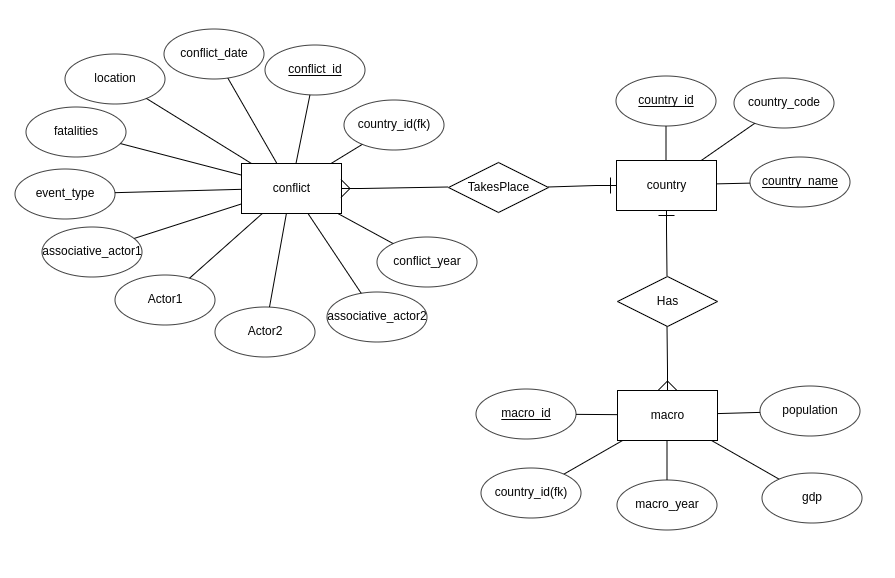
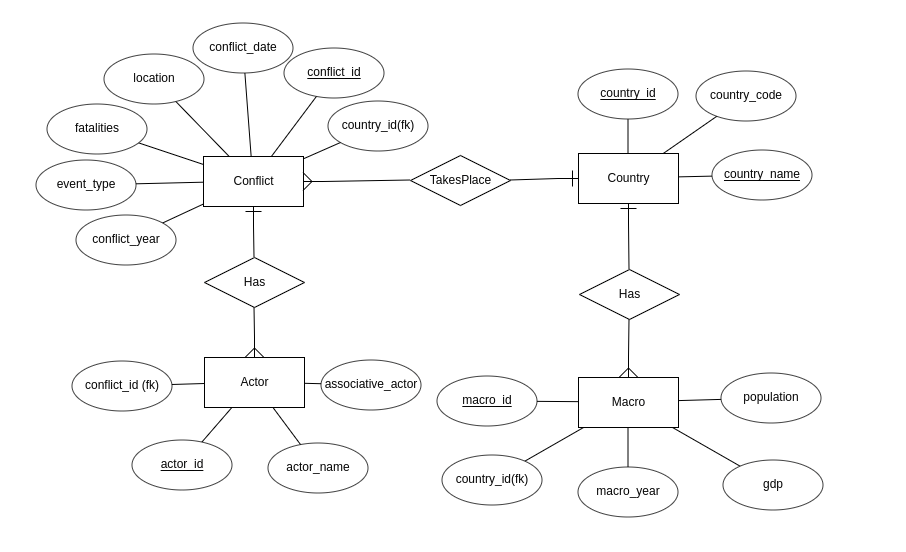
readme , updated ER

diff --git a/server/DatabaseConnection.js b/server/DatabaseConnection.js
@@ -1,12 +1,14 @@
 var mysql = require('mysql');
 
-var databaseName = "ConflictStatistics";
-var pw = "";
+const databaseName = "ConflictStatistics";
+const host = "localhost";
+const user = "root";
+const password = "";
 
 var con = mysql.createConnection({
-    host: "localhost",
-    user: "root",
-    password: pw,
+    host: host,
+    user: user,
+    password: password,
     database: databaseName
 });
 

diff --git a/README.md b/README.md
@@ -1,3 +1,29 @@
+# CONFLICT STATISTICS
+
+This application is a SQL database for macro-statistics for countries (fatalities, population and GDP), combined with conflict data (wars, uprisings, demonstrations). Reason for my idea is to get interesting statistical causalities between conflicts and other data. It will also be a pure database for reported conflicts around the world.
+
+## Installation
+1. Clone the project.
+2. Download and install [https://dev.mysql.com/downloads/](MySQL)
+3. Download [https://we.tl/t-MJmDxslnIu](data set) and move files to ConflictStatistics/datasets
+4. Change credentials in FileManager and DatabaseConnection
+    * const host = "localhost";
+    * const user = "root";
+    * const password = "";
+5. Run 'Node server/FileManager
+6. Run 'Node server/websocket
+7. Run npm start
+8. Open [localhost:3000](ConflictStatistics) in browser
+
+
+# Other resources
+
+* [https://erdplus.com](erdplus) for modeling
+* [https://raw.githubusercontent.com/JohanSoederlund/conflictstatistics/master/ER.png](ER model)
+* [https://www.youtube.com/channel/UCJwDeeR-CbWUAGIemcENFww?view_as=subscriber](Video presentation)
+
+# React
+
 This project was bootstrapped with [Create React App](https://github.com/facebook/create-react-app).
 
 ## Available Scripts
@@ -36,9 +62,3 @@ If you aren’t satisfied with the build tool and configuration choices, you can
 Instead, it will copy all the configuration files and the transitive dependencies (Webpack, Babel, ESLint, etc) right into your project so you have full control over them. All of the commands except `eject` will still work, but they will point to the copied scripts so you can tweak them. At this point you’re on your own.
 
 You don’t have to ever use `eject`. The curated feature set is suitable for small and middle deployments, and you shouldn’t feel obligated to use this feature. However we understand that this tool wouldn’t be useful if you couldn’t customize it when you are ready for it.
-
-## Learn More
-
-You can learn more in the [Create React App documentation](https://facebook.github.io/create-react-app/docs/getting-started).
-
-To learn React, check out the [React documentation](https://reactjs.org/).
